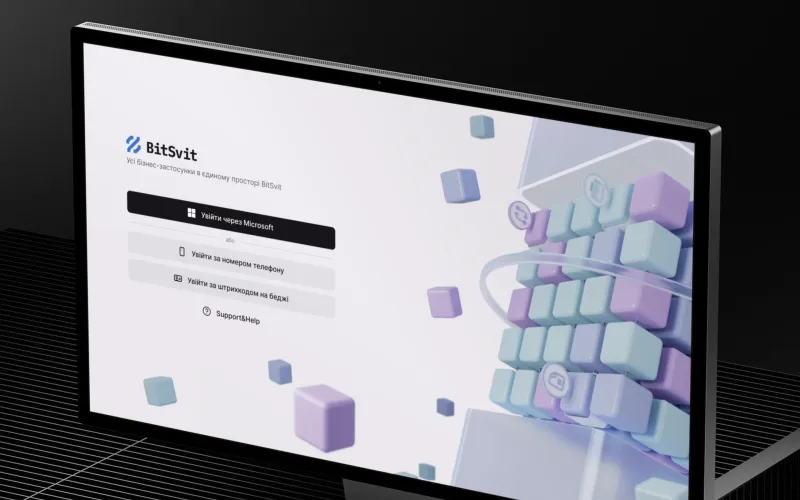
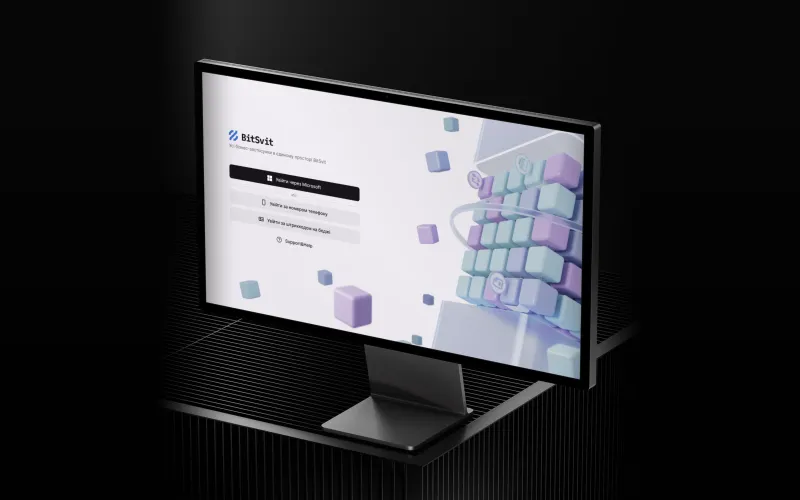
BOS cover: whole monitor

diff --git a/cases/bos-design-system/index.html b/cases/bos-design-system/index.html
@@ -52,7 +52,7 @@
 
     <section class="case-cover">
       <div class="wrap">
-        <div class="case-cover__inner case-cover__inner--art"><img src="../../assets/cases/bos-design-system/cover.webp" srcset="../../assets/cases/bos-design-system/cover-800.webp 800w, ../../assets/cases/bos-design-system/cover.webp 1600w" sizes="(min-width: 1280px) 1200px, 100vw" width="1600" height="1000" alt="The BitSvit platform sign-in screen built on the BOS design system, shown on a desktop monitor: sign in with Microsoft, by phone number or by badge barcode" fetchpriority="high" decoding="async" style="object-position: center top"></div>
+        <div class="case-cover__inner case-cover__inner--art"><img src="../../assets/cases/bos-design-system/cover.webp" srcset="../../assets/cases/bos-design-system/cover-800.webp 800w, ../../assets/cases/bos-design-system/cover.webp 1600w" sizes="(min-width: 1280px) 1200px, 100vw" width="1600" height="1000" alt="The BitSvit platform sign-in screen built on the BOS design system, shown on a desktop monitor: sign in with Microsoft, by phone number or by badge barcode" fetchpriority="high" decoding="async"></div>
       </div>
     </section>
 

diff --git a/index.html b/index.html
@@ -123,7 +123,7 @@
           </a>
 
           <a class="case" href="cases/bos-design-system/">
-            <div class="case__thumb case__thumb--art"><img src="assets/cases/bos-design-system/cover.webp" srcset="assets/cases/bos-design-system/cover-800.webp 800w, assets/cases/bos-design-system/cover.webp 1600w" sizes="(min-width: 1000px) 640px, 100vw" width="1600" height="1000" alt="" loading="lazy" decoding="async" style="object-position: center top"></div>
+            <div class="case__thumb case__thumb--art"><img src="assets/cases/bos-design-system/cover.webp" srcset="assets/cases/bos-design-system/cover-800.webp 800w, assets/cases/bos-design-system/cover.webp 1600w" sizes="(min-width: 1000px) 640px, 100vw" width="1600" height="1000" alt="" loading="lazy" decoding="async"></div>
             <div class="case__meta"><span>2026 · TemaBit</span><span data-i18n="t.dc4a0d6a">Lead Designer</span></div>
             <h3 class="case__title" data-i18n="t.5f754da2">BOS Design System — B2B platform DS</h3>
             <p class="case__sub" data-i18n="t.fe82214c">
